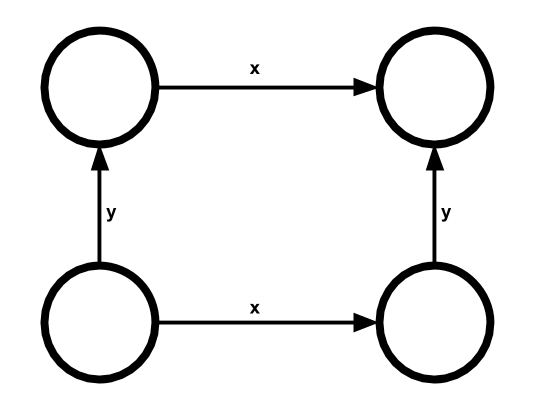
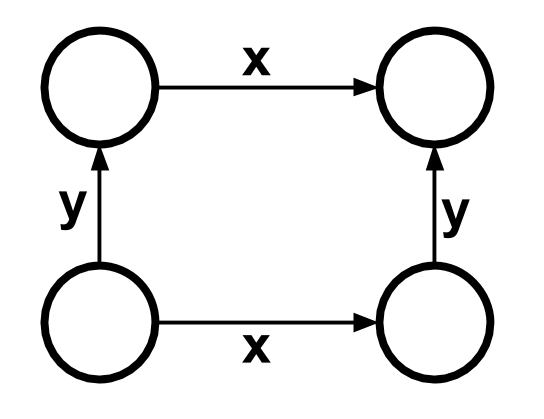
Make pattern images more readable

diff --git a/glados/README.md b/glados/README.md
@@ -179,15 +179,15 @@ Rather, they correspond to the **actual mathematical definition of max**.
 Finding properties can seem difficult at times, but you'll get better at finding them and you can start with obvious ones first.
 They don't have to be perfect – testing a few simple properties can still be better than traditional unit tests.
 
-To get your started, here are a bunch of patterns that may help you to find properties:
+To get you started, here are a bunch of patterns that can help you to find properties:
 
 |   |   |
 | - | - |
-| **Commutativity**: The order of the operations doesn't matter.<br /><ul><li>`list.reversed.map(...) == list.map(...).reversed`</li><li>a + b = b + a</li</ul> | ![commutativity](https://raw.githubusercontent.com/marcelgarus/glados/main/pattern-images/Commutativity.png) |
-| **Transform**: Certain operations don't affect the result of another operation.<br /><ul><li>After reversing or shuffling a list, the maximum should stay the same.</li></ul> | ![transform](https://raw.githubusercontent.com/marcelgarus/glados/main/pattern-images/Transform.png) |
-| **Inverse**: Sometimes, you can invert operations.<br /><ul><li>Reversing a list twice</li><li>Adding and subtracting the same value</li><li>Serializing and deserializing an object</li></ul> | ![inverse](https://raw.githubusercontent.com/marcelgarus/glados/main/pattern-images/Inverse.png) |
-| **Idempotence**: Certain operations don't change the value if they're applied a second time.<br /><ul><li>Sorting a list twice</li><li>Running a code formatter on a source code twice</li></ul> | ![idempotence](https://raw.githubusercontent.com/marcelgarus/glados/main/pattern-images/Idempotence.png) |
-| **Oracle**: If you have a correct implementation and want to test a more efficient one, just compare the results.<ul><li>Quicksorting a list is the same as bubblesorting it</li><li>Traditional unit tests (The correct implementation is *you* calculating the result in your head.)</li></ul> | ![oracle](https://raw.githubusercontent.com/marcelgarus/glados/main/pattern-images/Oracle.png) |
+| **Commutativity**: The order of the operations doesn't matter.<br /><ul><li>`list.reversed.map(...) == list.map(...).reversed`</li><li>a + b = b + a</li></ul> | <img src="https://raw.githubusercontent.com/marcelgarus/glados/main/pattern-images/Commutativity.png" width="200px" /> |
+| **Transform**: Certain operations don't affect the result of another operation.<br /><ul><li>After reversing or shuffling a list, the maximum should stay the same.</li></ul> | <img src="https://raw.githubusercontent.com/marcelgarus/glados/main/pattern-images/Transform.png" width="200px" /> |
+| **Inverse**: Sometimes, you can invert operations.<br /><ul><li>Reversing a list twice</li><li>Adding and subtracting the same value</li><li>Serializing and deserializing an object</li></ul> | <img src="https://raw.githubusercontent.com/marcelgarus/glados/main/pattern-images/Inverse.png" width="200px" /> |
+| **Idempotence**: Certain operations don't change the value if they're applied a second time.<br /><ul><li>Sorting a list twice</li><li>Running a code formatter on a source code twice</li></ul> | <img src="https://raw.githubusercontent.com/marcelgarus/glados/main/pattern-images/Idempotence.png" width="200px" /> |
+| **Oracle**: If you have a correct implementation and want to test a more efficient one, just compare the results.<ul><li>Quicksorting a list is the same as bubblesorting it</li><li>Traditional unit tests (The correct implementation is *you* calculating the result in your head.)</li></ul> | <img src="https://raw.githubusercontent.com/marcelgarus/glados/main/pattern-images/Oracle.png" width="200px" /> |
 
 ## How does it work?
 
